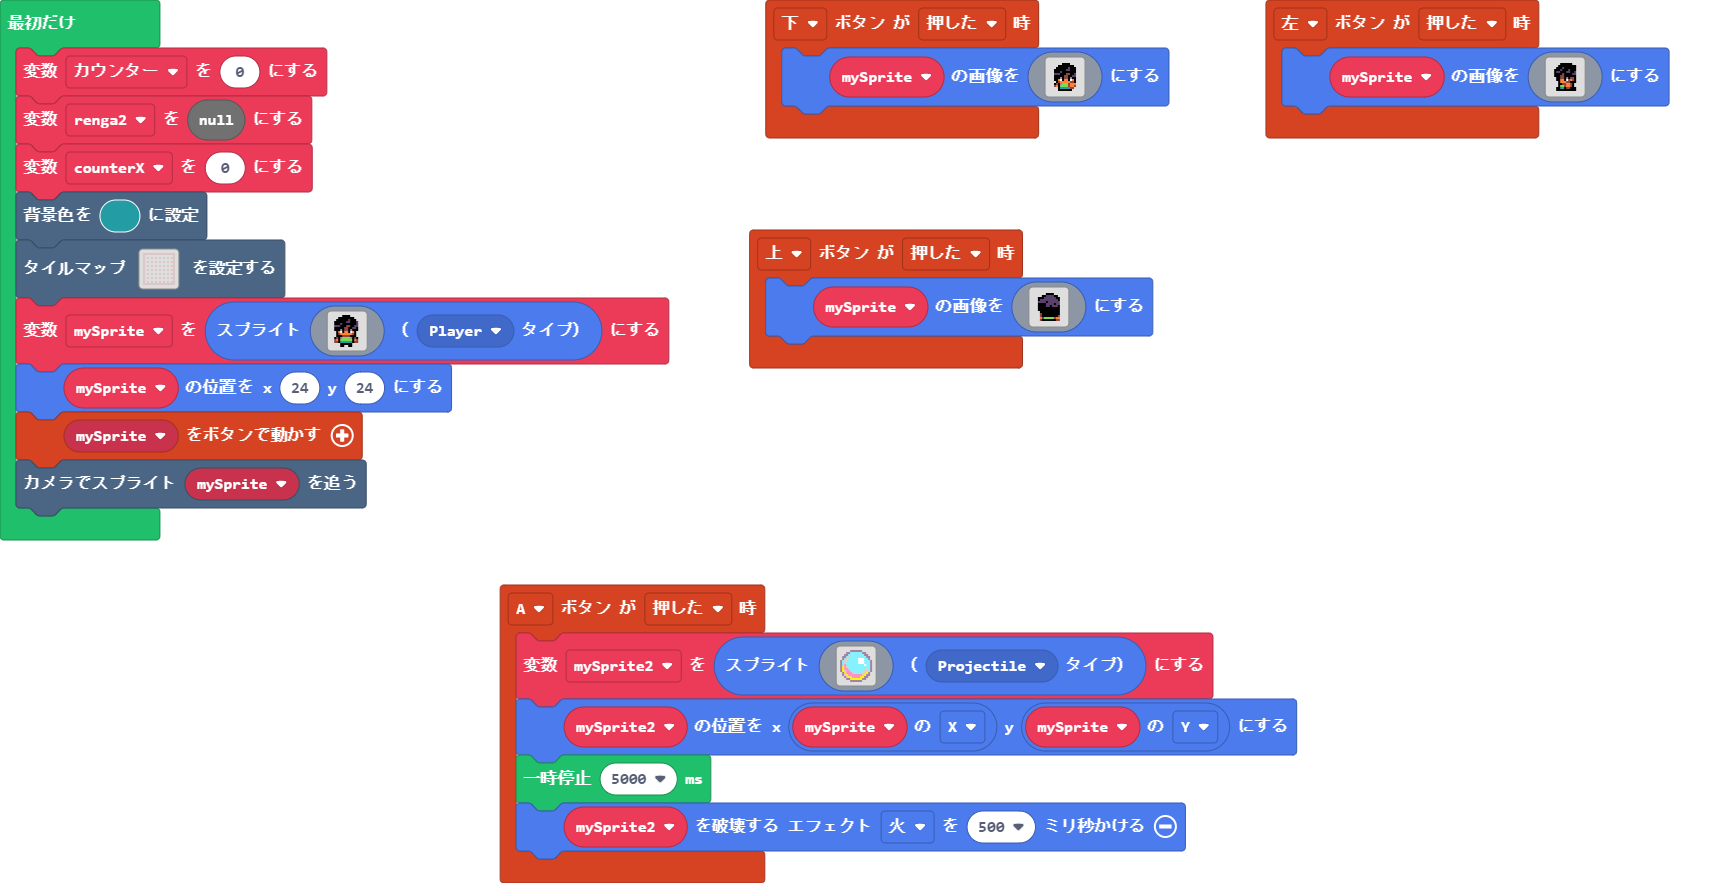
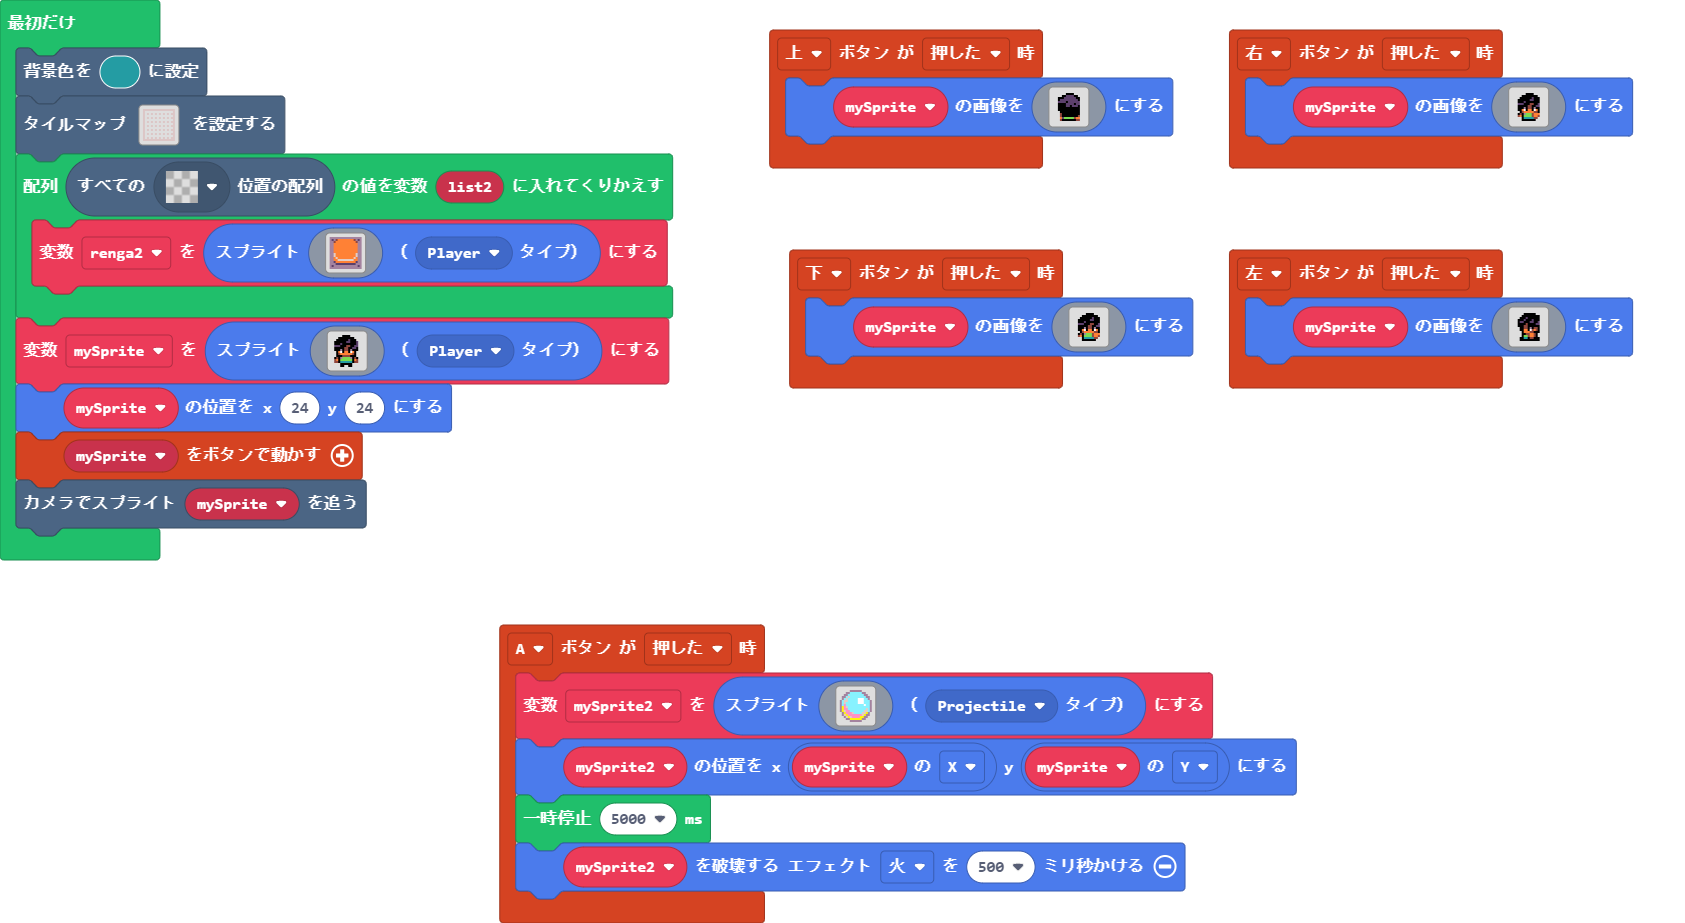
更新 pxt.json, main.blocks, main.ts, tilemap.g.jres, tilemap.g.ts, main.py

diff --git a/main.ts b/main.ts
@@ -1,3 +1,26 @@
+namespace SpriteKind {
+    export const renga = SpriteKind.create()
+}
+controller.right.onEvent(ControllerButtonEvent.Pressed, function () {
+    mySprite.setImage(img`
+        . . . . . . . . . . . . . 
+        . . . . . f f f f . . . . 
+        . . . f f f f f f f f . . 
+        . . f f f f f f c f f f . 
+        . f f f f f f c c f f f . 
+        . f f f c f f f f f f f . 
+        . c c c f f f e e f f c . 
+        . f f f f f e e f f c c . 
+        . f f f b f e e f b f f . 
+        . f f 4 1 f 4 4 f 1 4 f . 
+        . . f e 4 4 4 4 4 e e f . 
+        . f e f b 7 7 7 e 4 4 4 . 
+        . e 4 f 7 7 7 7 e 4 4 e . 
+        . . . f 6 6 6 6 6 e e . . 
+        . . . f f f f f f f . . . 
+        . . . . . . . . . . . . . 
+        `)
+})
 controller.down.onEvent(ControllerButtonEvent.Pressed, function () {
     mySprite.setImage(img`
         . . . . . . . . . . . . . 
@@ -83,11 +106,29 @@ controller.A.onEvent(ControllerButtonEvent.Pressed, function () {
 })
 let mySprite2: Sprite = null
 let mySprite: Sprite = null
-let カウンター = 0
-let renga2 = null
-let counterX = 0
+let renga2: Sprite = null
 scene.setBackgroundColor(6)
 tiles.setTilemap(tilemap`レベル1`)
+for (let list2 of tiles.getTilesByType(assets.tile`transparency16`)) {
+    renga2 = sprites.create(img`
+        b b b b b b b b b b b b b b b b 
+        b c b e 4 4 4 4 4 4 4 4 e b c b 
+        b b e 4 4 4 4 4 4 4 4 4 4 e b b 
+        b b 4 4 4 4 4 4 4 4 4 4 4 4 b b 
+        b b 4 4 4 4 4 4 4 4 4 4 4 4 b b 
+        b b 4 4 4 4 4 4 4 4 4 4 4 4 b b 
+        b b 4 4 4 4 4 4 4 4 4 4 4 4 b b 
+        b b 4 4 4 4 4 4 4 4 4 4 4 4 b b 
+        b b d 4 4 4 4 4 4 4 4 4 4 d b b 
+        b b d 4 4 4 4 4 4 4 4 4 4 d b b 
+        b b 4 d 4 4 4 4 4 4 4 4 d 4 b b 
+        b b 4 4 d d d d d d d d 4 4 b b 
+        b b c 4 4 4 4 4 4 4 4 4 4 c b b 
+        b b b c c c c c c c c c c b b b 
+        b c b b b b b b b b b b b b c b 
+        b b b b b b b b b b b b b b b b 
+        `, SpriteKind.Player)
+}
 mySprite = sprites.create(img`
     . . . . f f f f . . . . . 
     . . f f f f f f f f . . . 

diff --git a/tilemap.g.ts b/tilemap.g.ts
@@ -62,6 +62,25 @@ namespace myTiles {
 2 . 2 . 2 . 2 . 2 . 2 . 2 . 2 2 
 2 2 2 2 2 2 2 2 2 2 2 2 2 2 2 2 
 `, [myTiles.transparency16,sprites.dungeon.floorLight0], TileScale.Sixteen);
+            case "レベル4":
+            case "レベル4":return tiles.createTilemap(hex`1000100000000000000000000000000000000000000000000000000000000000000000000000000000000000000000000000000000000000000000000000000000000000000000000000000000000000000000000000000000000000000000000000000000000000000000000000000000000000000000000000000000000000000000000000000000000000000000000000000000000000000000000000000000000000000000000000000000000000000000000000000000000000000000000000000000000000000000000000000000000000000000000000000000000000000000000000000000000000000000000000000000000000000000000000000000000000`, img`
+. . . . . . . . . . . . . . . . 
+. . . . . . . . . . . . . . . . 
+. . . . . . . . . . . . . . . . 
+. . . . . . . . . . . . . . . . 
+. . . . . . . . . . . . . . . . 
+. . . . . . . . . . . . . . . . 
+. . . . . . . . . . . . . . . . 
+. . . . . . . . . . . . . . . . 
+. . . . . . . . . . . . . . . . 
+. . . . . . . . . . . . . . . . 
+. . . . . . . . . . . . . . . . 
+. . . . . . . . . . . . . . . . 
+. . . . . . . . . . . . . . . . 
+. . . . . . . . . . . . . . . . 
+. . . . . . . . . . . . . . . . 
+. . . . . . . . . . . . . . . . 
+`, [myTiles.transparency16], TileScale.Sixteen);
         }
         return null;
     })

diff --git a/main.py b/main.py
@@ -1,0 +1,165 @@
+@namespace
+class SpriteKind:
+    renga = SpriteKind.create()
+
+def on_right_pressed():
+    mySprite.set_image(img("""
+        . . . . . . . . . . . . . 
+                . . . . . f f f f . . . . 
+                . . . f f f f f f f f . . 
+                . . f f f f f f c f f f . 
+                . f f f f f f c c f f f . 
+                . f f f c f f f f f f f . 
+                . c c c f f f e e f f c . 
+                . f f f f f e e f f c c . 
+                . f f f b f e e f b f f . 
+                . f f 4 1 f 4 4 f 1 4 f . 
+                . . f e 4 4 4 4 4 e e f . 
+                . f e f b 7 7 7 e 4 4 4 . 
+                . e 4 f 7 7 7 7 e 4 4 e . 
+                . . . f 6 6 6 6 6 e e . . 
+                . . . f f f f f f f . . . 
+                . . . . . . . . . . . . .
+    """))
+controller.right.on_event(ControllerButtonEvent.PRESSED, on_right_pressed)
+
+def on_down_pressed():
+    mySprite.set_image(img("""
+        . . . . . . . . . . . . . 
+                . . . . . f f f f . . . . 
+                . . . f f f f f f f f . . 
+                . . f f f f f f c f f f . 
+                . f f f f f f c c f f f . 
+                . f f f c f f f f f f f . 
+                . c c c f f f e e f f c . 
+                . f f f f f e e f f c c . 
+                . f f f b f e e f b f f . 
+                . f f 4 1 f 4 4 f 1 4 f . 
+                . . f e 4 4 4 4 4 e e f . 
+                . f e f b 7 7 7 e 4 4 4 . 
+                . e 4 f 7 7 7 7 e 4 4 e . 
+                . . . f 6 6 6 6 6 e e . . 
+                . . . f f f f f f f . . . 
+                . . . . . . . . . . . . .
+    """))
+controller.down.on_event(ControllerButtonEvent.PRESSED, on_down_pressed)
+
+def on_left_pressed():
+    mySprite.set_image(img("""
+        . . . . . . . . . . . . . 
+                . . . . f f f f f f . . . 
+                . . . f f f f f f f f f . 
+                . . f f f c f f f f f f . 
+                . f f f c f f f c f f f . 
+                . f c c f f f c c f f c . 
+                . f f f f e f f f f c c . 
+                . f f f e e f f f f f f . 
+                . . f f e e f b f e e f . 
+                . . f f 4 4 f 1 e 4 e f . 
+                . . . f 4 4 4 e e f f f . 
+                . . . f f e e 4 4 e f . . 
+                . . . f 7 7 e 4 4 e f . . 
+                . . f f 6 6 f e e f f f . 
+                . . f f f f f f f f f f . 
+                . . . . . . . . . . . . .
+    """))
+controller.left.on_event(ControllerButtonEvent.PRESSED, on_left_pressed)
+
+def on_up_pressed():
+    mySprite.set_image(img("""
+        . . . . . . . . . . . . . 
+                . . . . . f f f f . . . . 
+                . . . f f c c c c f f . . 
+                . f f f c c c c c c f f . 
+                . f c c c c c c c c c f . 
+                . c c c c f c c c c c c . 
+                . f f f f c c c c f c c . 
+                . f f f f c c f c c c f . 
+                . f f f f f f f f f f f . 
+                . f f f f f f f f f f f . 
+                . . f f f f f f f f f f . 
+                . . e f f f f f f f f f . 
+                . . e f f f f f f f f e . 
+                . . 4 c 7 7 7 7 7 e 4 4 . 
+                . . e f f f f f f f e e . 
+                . . . . . . . . . . . . .
+    """))
+controller.up.on_event(ControllerButtonEvent.PRESSED, on_up_pressed)
+
+def on_a_pressed():
+    global mySprite2
+    mySprite2 = sprites.create(img("""
+            . . . . . b b b b b b . . . . . 
+                    . . . b b 9 9 9 9 9 9 b b . . . 
+                    . . b b 9 9 9 9 9 9 9 9 b b . . 
+                    . b b 9 d 9 9 9 9 9 9 9 9 b b . 
+                    . b 9 d 9 9 9 9 9 1 1 1 9 9 b . 
+                    b 9 d d 9 9 9 9 9 1 1 1 9 9 9 b 
+                    b 9 d 9 9 9 9 9 9 1 1 1 9 9 9 b 
+                    b 9 3 9 9 9 9 9 9 9 9 9 1 9 9 b 
+                    b 5 3 d 9 9 9 9 9 9 9 9 9 9 9 b 
+                    b 5 3 3 9 9 9 9 9 9 9 9 9 d 9 b 
+                    b 5 d 3 3 9 9 9 9 9 9 9 d d 9 b 
+                    . b 5 3 3 3 d 9 9 9 9 d d 5 b . 
+                    . b d 5 3 3 3 3 3 3 3 d 5 b b . 
+                    . . b d 5 d 3 3 3 3 5 5 b b . . 
+                    . . . b b 5 5 5 5 5 5 b b . . . 
+                    . . . . . b b b b b b . . . . .
+        """),
+        SpriteKind.projectile)
+    mySprite2.set_position(mySprite.x, mySprite.y)
+    pause(5000)
+    mySprite2.destroy(effects.fire, 500)
+controller.A.on_event(ControllerButtonEvent.PRESSED, on_a_pressed)
+
+mySprite2: Sprite = None
+mySprite: Sprite = None
+renga2: Sprite = None
+scene.set_background_color(6)
+tiles.set_tilemap(tilemap("""
+    レベル1
+"""))
+for list2 in tiles.get_tiles_by_type(assets.tile("""
+    transparency16
+""")):
+    renga2 = sprites.create(img("""
+            b b b b b b b b b b b b b b b b 
+                    b c b e 4 4 4 4 4 4 4 4 e b c b 
+                    b b e 4 4 4 4 4 4 4 4 4 4 e b b 
+                    b b 4 4 4 4 4 4 4 4 4 4 4 4 b b 
+                    b b 4 4 4 4 4 4 4 4 4 4 4 4 b b 
+                    b b 4 4 4 4 4 4 4 4 4 4 4 4 b b 
+                    b b 4 4 4 4 4 4 4 4 4 4 4 4 b b 
+                    b b 4 4 4 4 4 4 4 4 4 4 4 4 b b 
+                    b b d 4 4 4 4 4 4 4 4 4 4 d b b 
+                    b b d 4 4 4 4 4 4 4 4 4 4 d b b 
+                    b b 4 d 4 4 4 4 4 4 4 4 d 4 b b 
+                    b b 4 4 d d d d d d d d 4 4 b b 
+                    b b c 4 4 4 4 4 4 4 4 4 4 c b b 
+                    b b b c c c c c c c c c c b b b 
+                    b c b b b b b b b b b b b b c b 
+                    b b b b b b b b b b b b b b b b
+        """),
+        SpriteKind.player)
+mySprite = sprites.create(img("""
+        . . . . f f f f . . . . . 
+            . . f f f f f f f f . . . 
+            . f f f f f f c f f f . . 
+            f f f f f f c c f f f c . 
+            f f f c f f f f f f f c . 
+            c c c f f f e e f f c c . 
+            f f f f f e e f f c c f . 
+            f f f b f e e f b f f f . 
+            . f 4 1 f 4 4 f 1 4 f . . 
+            . f e 4 4 4 4 4 4 e f . . 
+            . f f f e e e e f f f . . 
+            f e f b 7 7 7 7 b f e f . 
+            e 4 f 7 7 7 7 7 7 f 4 e . 
+            e e f 6 6 6 6 6 6 f e e . 
+            . . . f f f f f f . . . . 
+            . . . f f . . f f . . . .
+    """),
+    SpriteKind.player)
+mySprite.set_position(24, 24)
+controller.move_sprite(mySprite)
+scene.camera_follow_sprite(mySprite)
